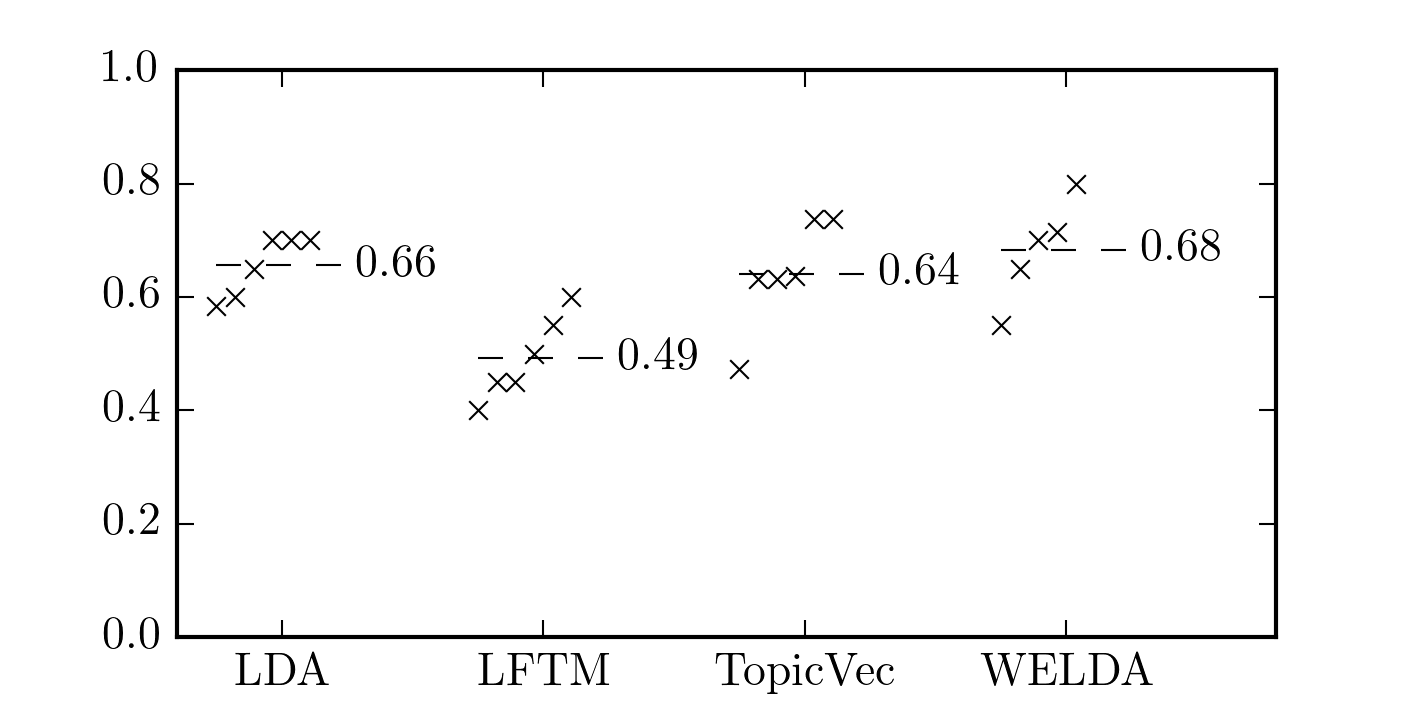
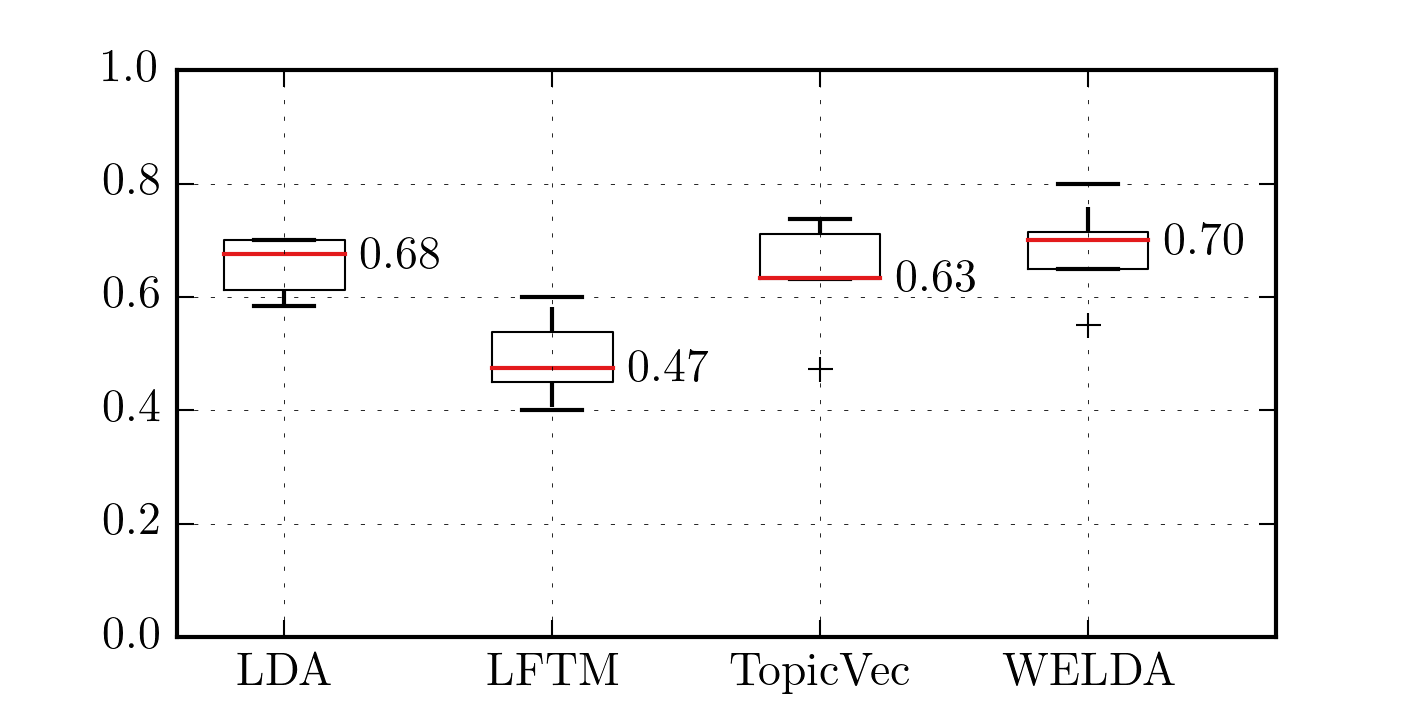
Thesis

diff --git a/thesis/thesis.tex b/thesis/thesis.tex
@@ -2217,17 +2217,17 @@ In this task, a subject is presented with a list of six words.
 Five of these six words belong to the top words of one topic of the topic model.
 The sixth word is chosen randomly from another topic.
 This word is called the \emph{intruder}.
-Our potential intruders had to be in the top ten words of another topic, but not in the top fifty words of the topic the other five words stem from.
+Our potential intruders had to be in the top ten words of another topic, but not in the top fifty words of the topic the first five words stem from.
 The word order is randomized.
 The idea of this word intrusion study is the following: if the five words form a clear, coherent topic, it should be simple to detect the intruder.
-For example, in the word set:
+For example, look at the word set:
 \topicbox{gaussian bayesian posterior neural distribution prior}
-the intruder ``neural'' is easily recognizable, because all other words stem from Bayesian statistics.
+The intruder ``neural'' is easily recognizable, because all other words stem from Bayesian statistics.
 However, in the sample:
 \topicbox{error generalization hypothesis convergence evidence probability}
 the intruder ``convergence'' is much harder to recognize.
-In this cases, the subjects will choose one of the words at random.
-The percentage of correctly identified intruders is taken as a metric to assess the quality of a topic model.
+In this cases, the chance that the subject recognizes the wrong word is much lower.
+The percentage of correctly identified intruders, the accuracy, is taken as the evaluation metric to assess the quality of a topic model.
 
 In our study, we picked the four best models from Section~\ref{sec:evaluation_topic_coherence}, i.e. LDA, LFTM, TopicVec and WELDA.
 We tested two different scenarios: one with $K = 50$ topics and one with $K = 20$ topics.
@@ -2235,24 +2235,26 @@ We created one sample for each topic.
 This resulted in 200 samples for the 50-topic topic models and 80 samples for $K = 20$.
 Our subject group consisted of computer science students and computer scientists familiar with the topics of the \textsc{Nips} corpus.
 To not bias the results, subjects were not presented with the information, whether their selection was correct~\cite{Chang2009}.
+Also, the underlying topic model was not displayed and we randomized the order of the samples.
 
 We present the results in Figures~\ref{fig:word_intrusion_20} and \ref{fig:word_intrusion_50}.
-Each sampled was evaluated by at least five subjects.
-We plot the accuracy of the individual subjects, as well as the average accuracy over all subjects.
-% TODO: Results after Michael
-
-\begin{figure}
-       \centering
-       \includegraphics[width=12cm]{figures/word_intrusion_20.png}
-       \caption{Word intrusion study results for 20 topics. The data points represent the accuracy of the different subjects. We also marked the micro-averaged accuracy over all subjects.}
-       \label{fig:word_intrusion_20}
-\end{figure}
+For the plot, we calculated the accuracy of each subject on each topic model.
+Each model was evaluated by at least five subjects, so we had at least five accuracy values.
+We then plotted the distribution of the accuracy for each model.
+For both $K = 20$ and $K = 50$ WELDA achieves the highest accuracy.
 
 \begin{figure}
        \centering
        \includegraphics[width=12cm]{figures/word_intrusion_50.png}
-       \caption{Word intrusion study results for 50 topics}
+       \caption{Word intrusion study results for 50 topics. The plot shows the distribution of the accuracy for all subjects. The red line indicates the median. WELDA achieves the highest accuracy.}
        \label{fig:word_intrusion_50}
+\end{figure}
+
+\begin{figure}
+       \centering
+       \includegraphics[width=12cm]{figures/word_intrusion_20.png}
+       \caption{Word intrusion study results for 20 topics. WELDA achieves the highest accuracy.}
+       \label{fig:word_intrusion_20}
 \end{figure}
 
 \section{Runtime}
